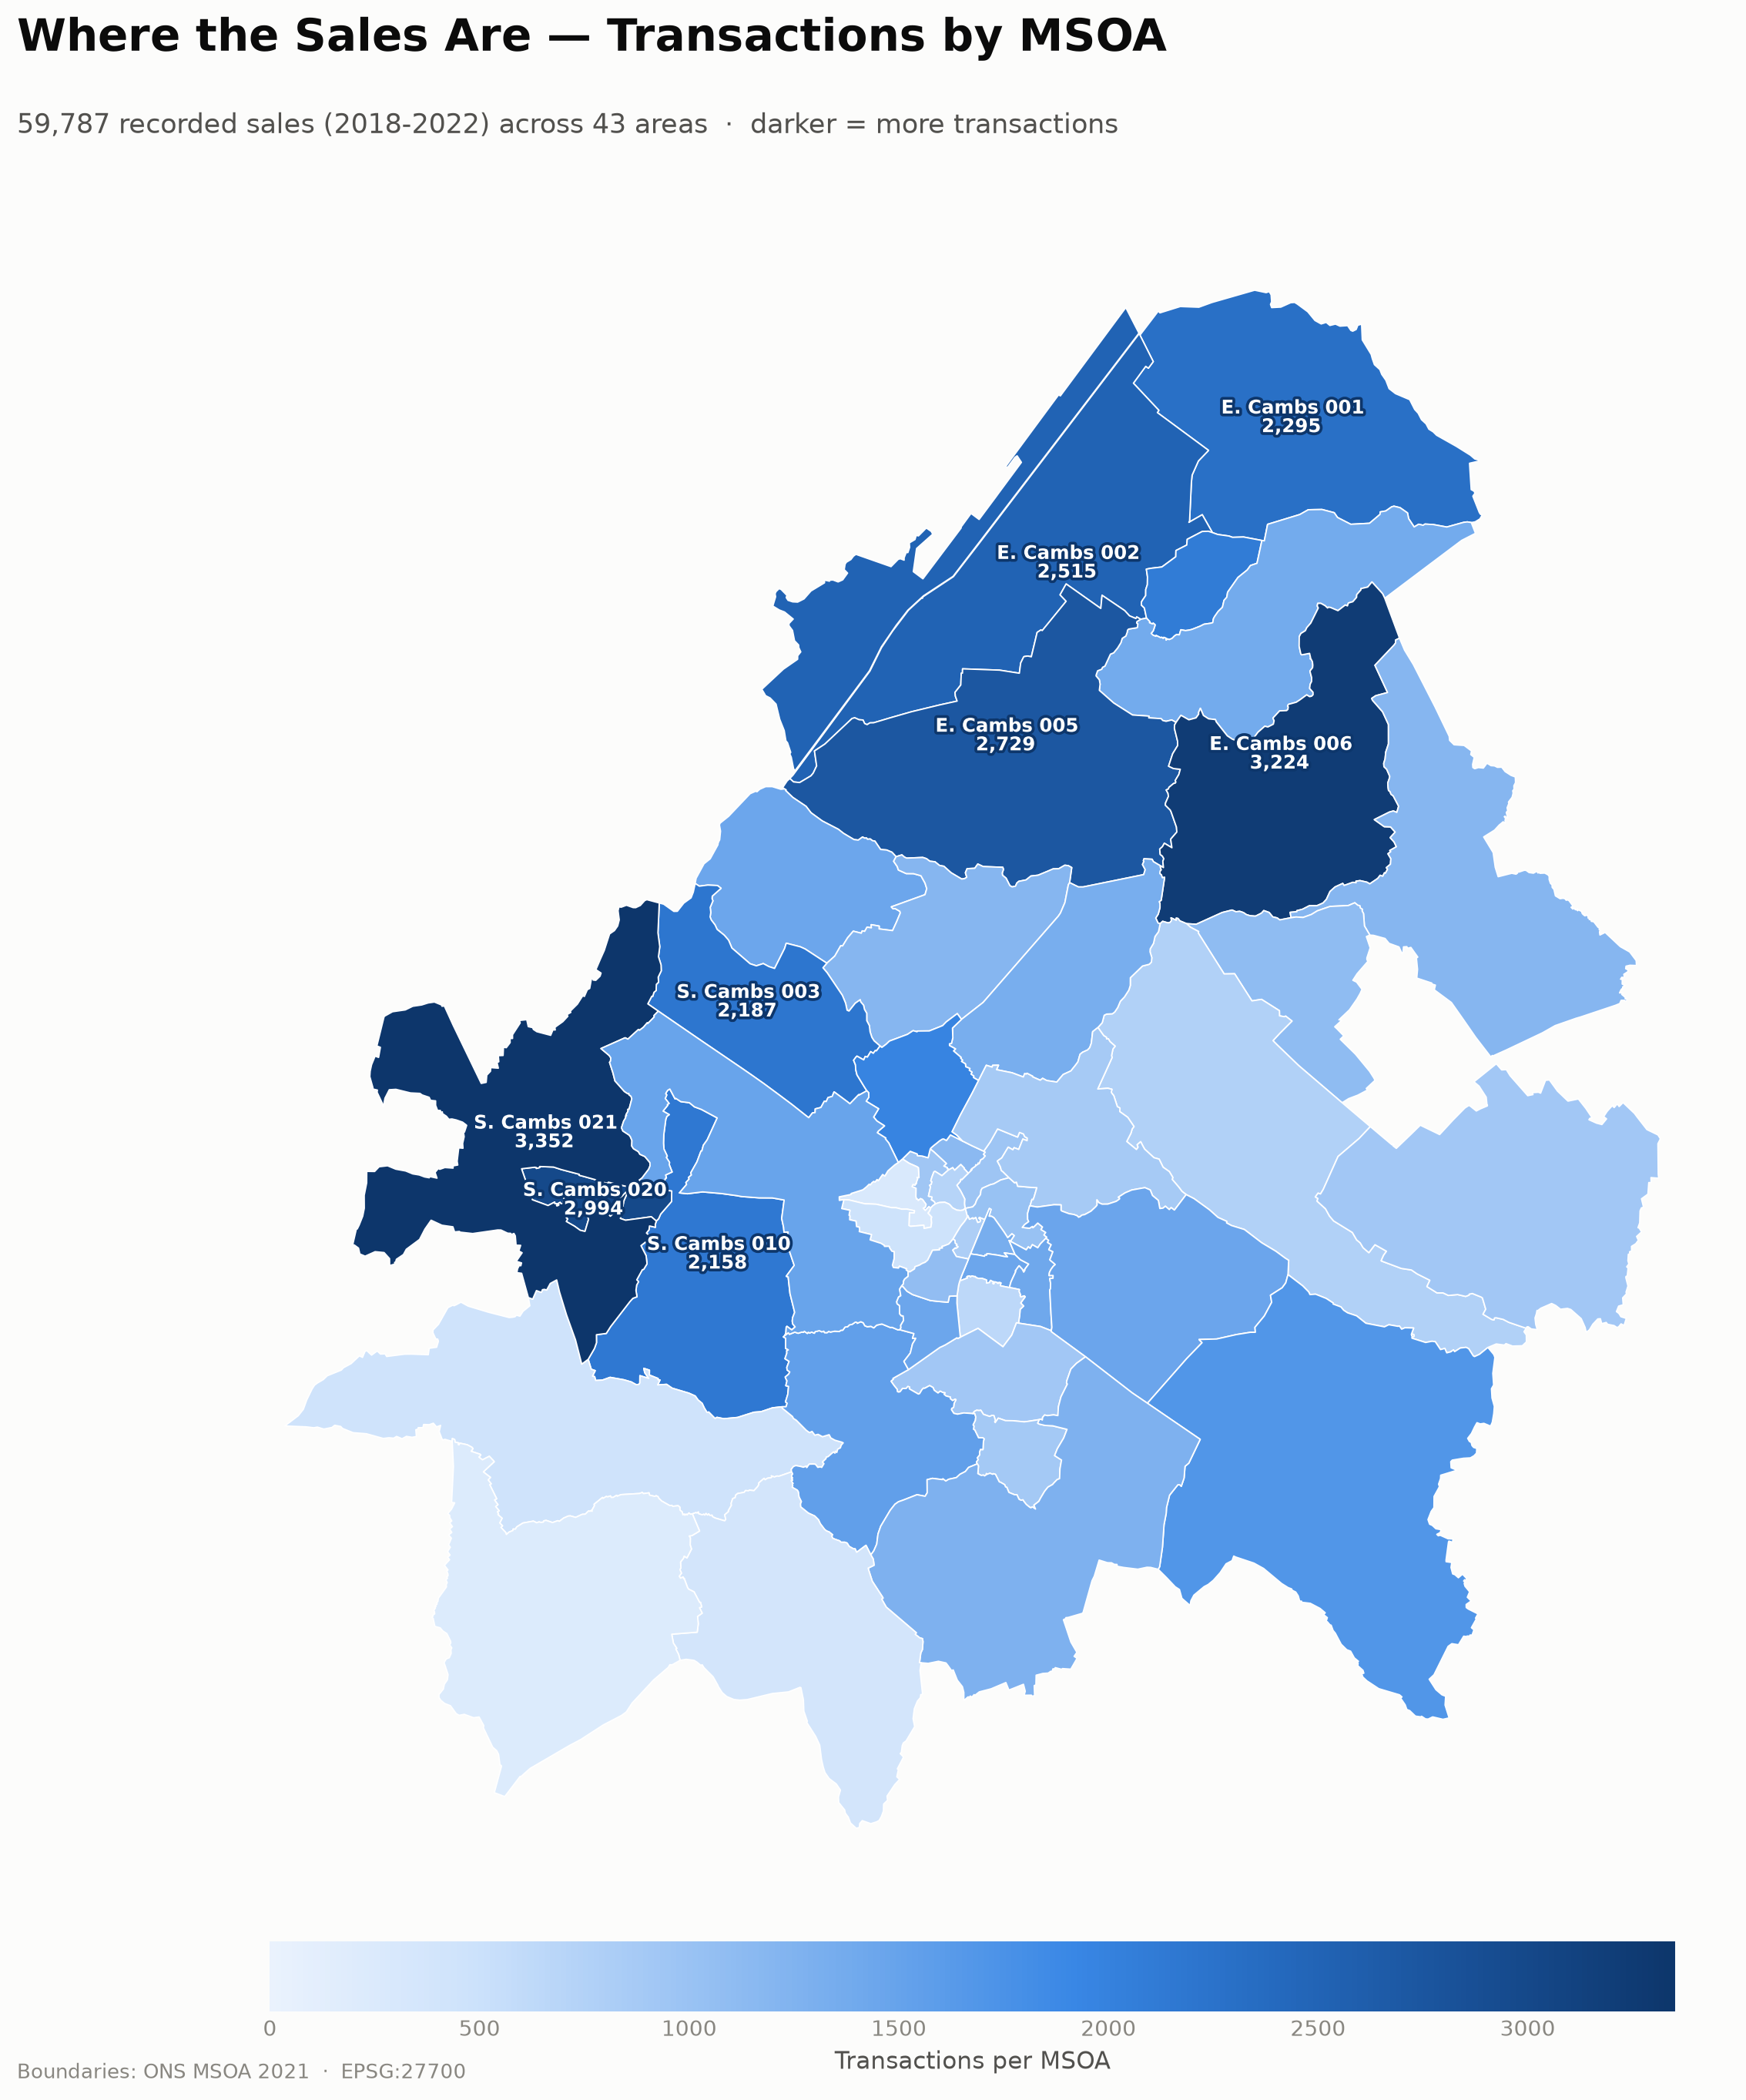
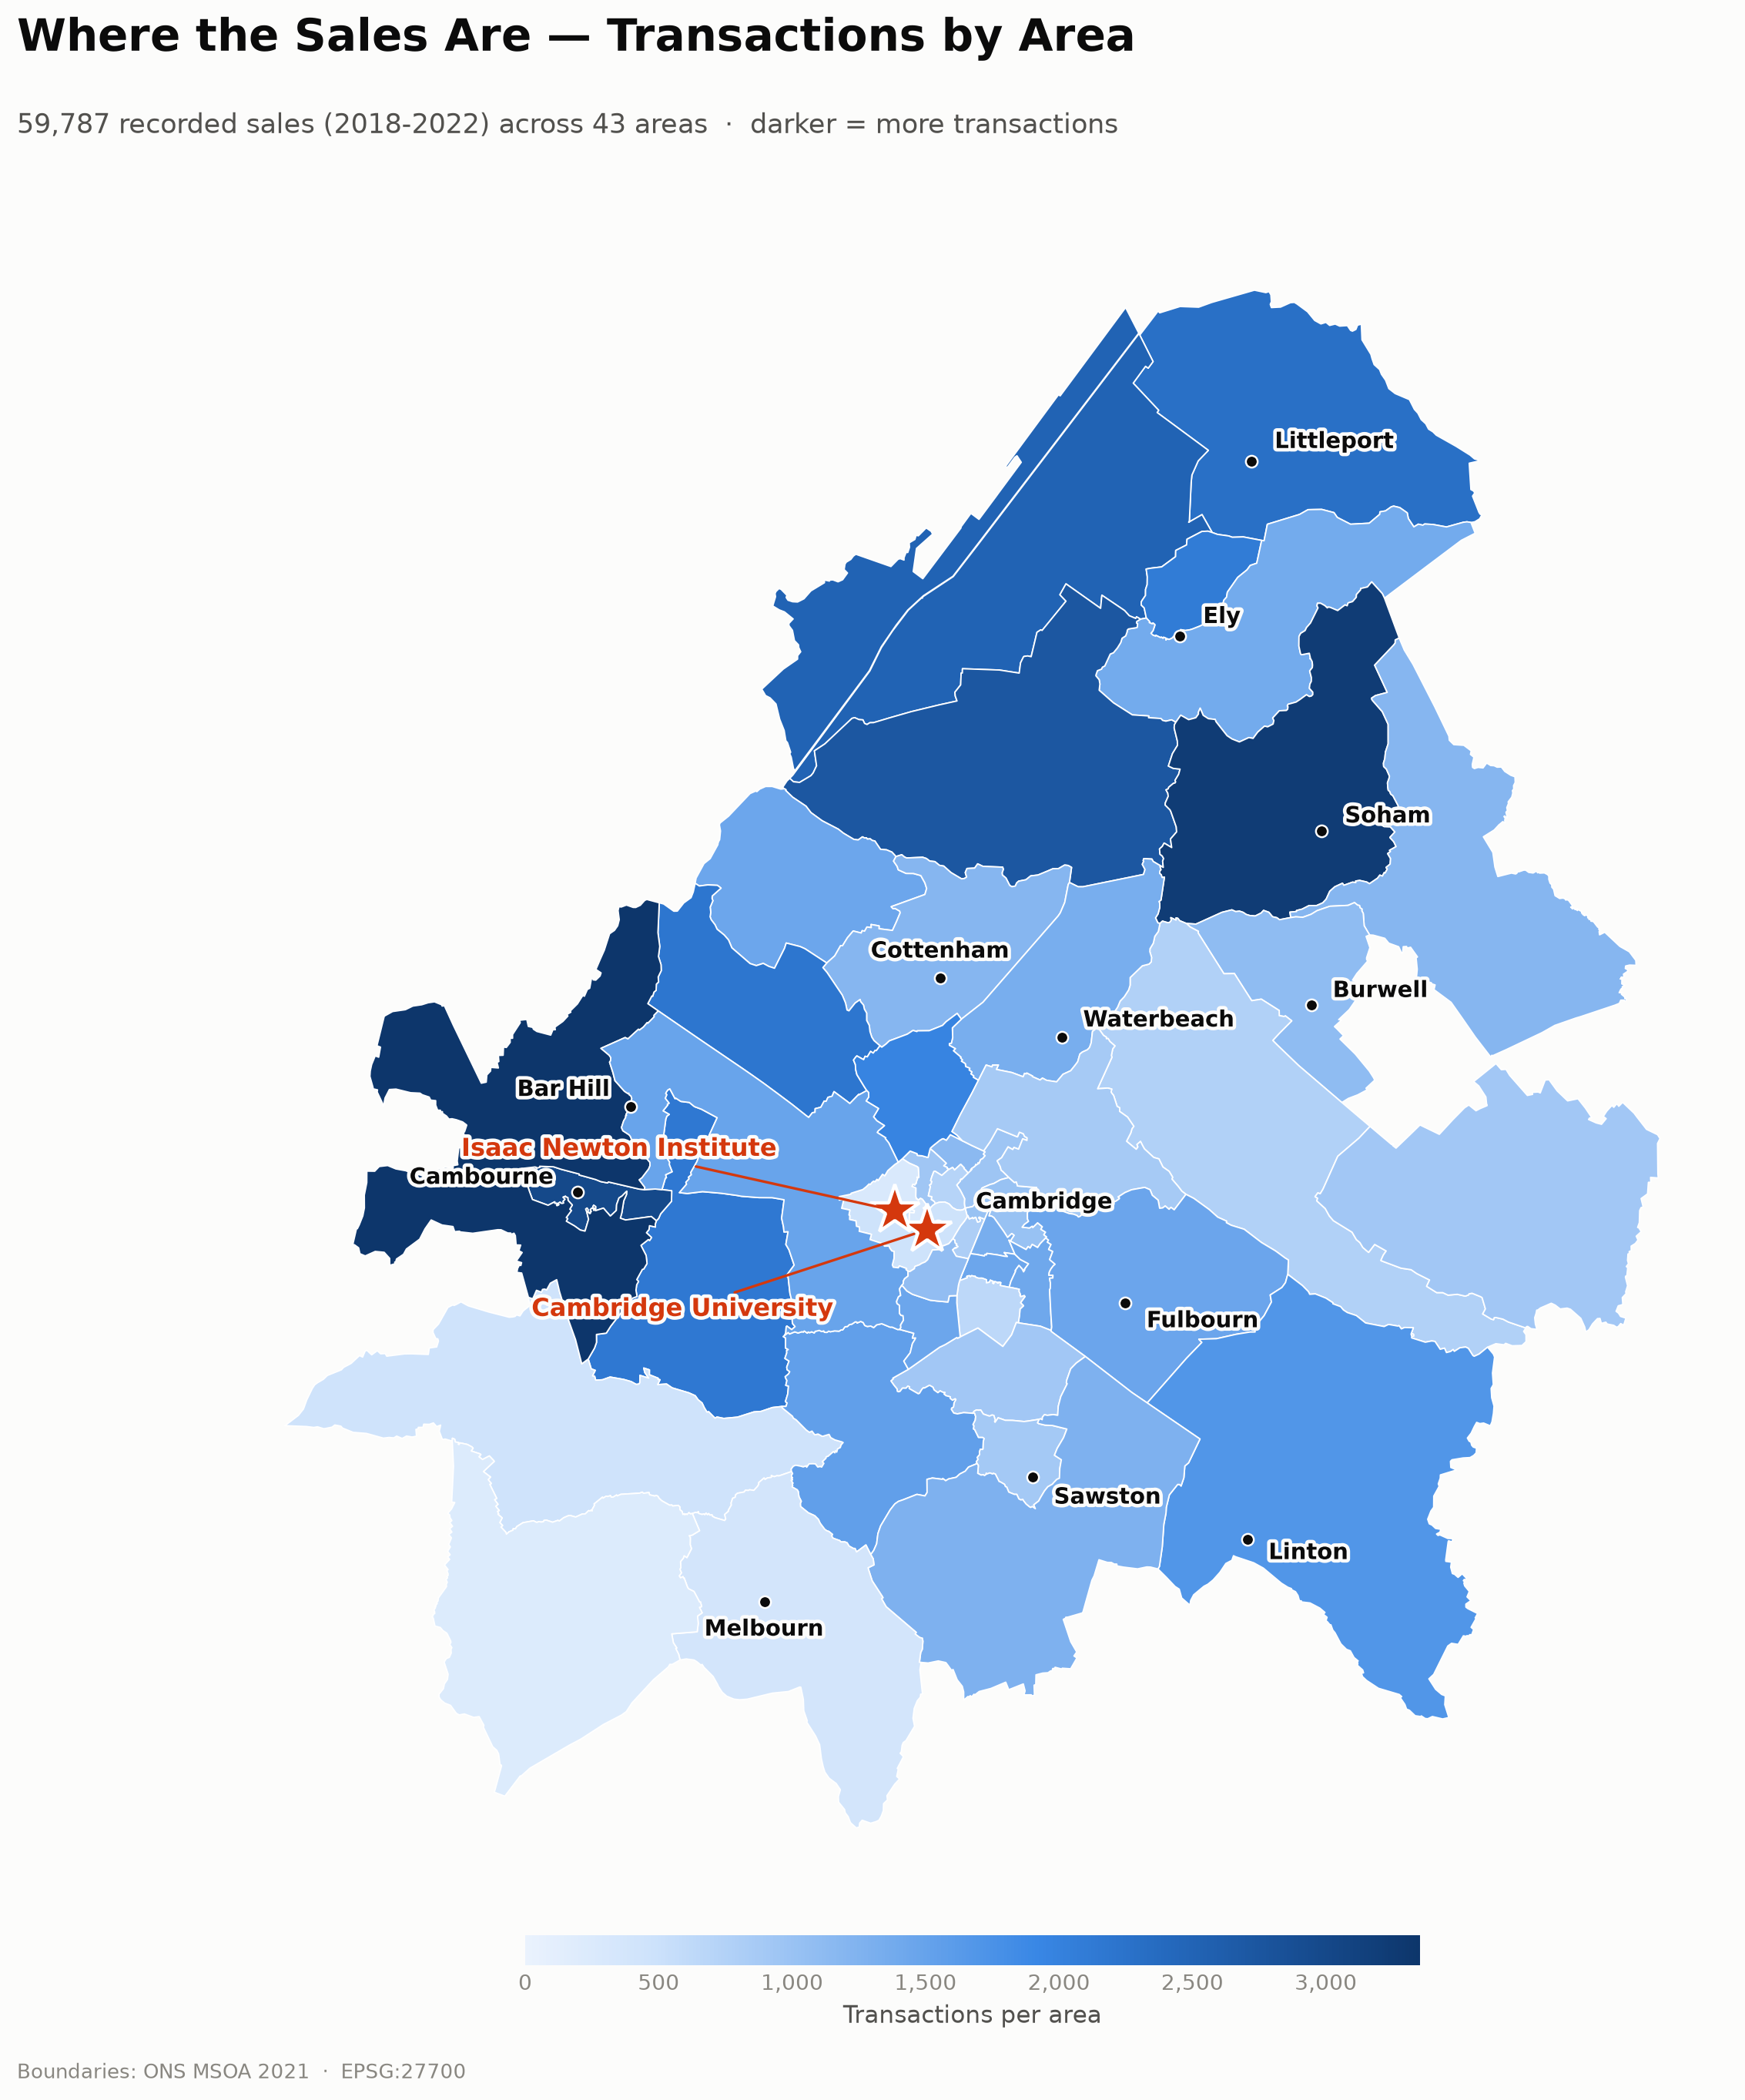
Label maps with real towns + Cambridge University and Isaac Newton Institute; add population density map from ONS mid-2022 estimates

diff --git a/code/python/plot_cambridgeshire_maps.py b/code/python/plot_cambridgeshire_maps.py
@@ -36,6 +36,7 @@ DATA_DIR = PROJECT_ROOT / "data"
 IMAGE_DIR = PROJECT_ROOT / "image"
 
 CLEANED = DATA_DIR / "cleaned" / "Cambridge data_cleaned.csv"
+POPULATION = DATA_DIR / "spatial" / "msoa_population_mid2022.csv"
 BOUNDARIES = (
     DATA_DIR
     / "spatial"
@@ -96,24 +97,35 @@ PRICE_TRAITS = [
 GROUP_AFFORD = "#eb6834"  # orange - most affordable areas
 GROUP_PRICEY = "#2a78d6"  # blue   - priciest areas
 
-# Key Cambridgeshire landmarks (num, lat, lon, name, one-line effect note). Shown
-# as numbered dots on the map, described in the side key.
-LANDMARKS = [
-    (1, 52.2045, 0.1170, "University of Cambridge", "historic colleges: priciest, low turnover"),
-    (2, 52.1745, 0.1400, "Biomedical Campus", "Addenbrooke's: major employer, south"),
-    (3, 52.2320, 0.1490, "Cambridge Science Park", "'Silicon Fen' tech jobs, north"),
-    (4, 52.2220, -0.0730, "Cambourne", "new town: new-build boom, top volume"),
-    (5, 52.3990, 0.2620, "Ely", "cathedral commuter city (East Cambs)"),
-    (6, 52.3330, 0.3360, "Soham", "affordable market town, high turnover"),
-    (7, 52.4620, 0.3050, "Littleport", "cheapest, high-volume town (north)"),
-    (8, 52.1850, -0.0050, "West villages", "Grantchester/Comberton: £580k, low turnover"),
+VIOLET_RAMP = LinearSegmentedColormap.from_list(
+    "cam_violet",
+    ["#f0ecfb", "#ddd0f3", "#c2ade8", "#a385db", "#845fcc", "#653fb0", "#4c2c8f", "#35206b"],
+)
+
+# Real towns to label on every map: (name, lat, lon, dx, dy, ha) — dx/dy are the
+# label offset in points from the dot, hand-tuned so labels sit clear of one another.
+TOWNS = [
+    ("Cambridge", 52.2053, 0.1218, 16, 10, "left"),
+    ("Ely", 52.3993, 0.2626, 10, 8, "left"),
+    ("Soham", 52.3330, 0.3363, 10, 6, "left"),
+    ("Littleport", 52.4568, 0.3046, 10, 8, "left"),
+    ("Cambourne", 52.2200, -0.0730, -10, 6, "right"),
+    ("Sawston", 52.1210, 0.1690, 9, -9, "left"),
+    ("Waterbeach", 52.2670, 0.1920, 9, 7, "left"),
+    ("Cottenham", 52.2880, 0.1270, 0, 11, "center"),
+    ("Burwell", 52.2750, 0.3280, 9, 6, "left"),
+    ("Bar Hill", 52.2480, -0.0430, -9, 7, "right"),
+    ("Melbourn", 52.0820, 0.0220, 0, -12, "center"),
+    ("Linton", 52.0980, 0.2840, 9, -6, "left"),
+    ("Fulbourn", 52.1780, 0.2220, 9, -8, "left"),
 ]
 
-REGION_NOTES = [
-    ("Cambridge city  (14 MSOAs)", "high price · flat-heavy · low turnover"),
-    ("South Cambs  (19 MSOAs)", "commuter villages + new towns (Cambourne)"),
-    ("East Cambs  (10 MSOAs)", "affordable market towns: Ely, Soham, Littleport"),
+# The two headline landmarks — starred and made prominent ("where we are now").
+SPECIAL = [
+    ("Cambridge University", 52.2043, 0.1160, -40, -34, "right"),
+    ("Isaac Newton Institute", 52.2109, 0.0985, -50, 26, "right"),
 ]
+STAR = "#d4380d"  # strong orange-red for the two headline landmarks
 
 
 def style_axes(ax) -> None:
@@ -132,13 +144,27 @@ def footer(fig, text) -> None:
     fig.text(0.03, 0.02, text, fontsize=8.5, color=MUTED)
 
 
-def label_top(ax, gdf, n, *, color="white", stroke="#0d366b") -> None:
-    for _, row in gdf.sort_values("count", ascending=False).head(n).iterrows():
-        pt = row.geometry.representative_point()
-        ax.annotate(f"{row['short']}\n{int(row['count']):,}", (pt.x, pt.y),
-                    ha="center", va="center", fontsize=8, fontweight="bold",
-                    color=color, linespacing=1.05,
-                    path_effects=[path_effects.withStroke(linewidth=2.4, foreground=stroke)])
+def _project(items):
+    """Project a list of (name, lat, lon, ...) to EPSG:27700 points."""
+    lon = [t[2] for t in items]
+    lat = [t[1] for t in items]
+    return gpd.GeoDataFrame(geometry=gpd.points_from_xy(lon, lat), crs="EPSG:4326").to_crs(27700)
+
+
+def annotate_places(ax) -> None:
+    """Label the main towns (dots) plus the two headline landmarks (stars)."""
+    halo = [path_effects.withStroke(linewidth=3, foreground=SURFACE)]
+    for (name, la, lo, dx, dy, ha), geom in zip(TOWNS, _project(TOWNS).geometry):
+        ax.plot(geom.x, geom.y, "o", ms=5, mfc=INK, mec="white", mew=0.8, zorder=6)
+        ax.annotate(name, (geom.x, geom.y), xytext=(dx, dy), textcoords="offset points",
+                    ha=ha, va="center", fontsize=9.5, fontweight="bold", color=INK,
+                    zorder=7, path_effects=halo)
+    for (name, la, lo, dx, dy, ha), geom in zip(SPECIAL, _project(SPECIAL).geometry):
+        ax.plot(geom.x, geom.y, marker="*", ms=22, mfc=STAR, mec="white", mew=1.4, zorder=8)
+        ax.annotate(name, (geom.x, geom.y), xytext=(dx, dy), textcoords="offset points",
+                    ha=ha, va="center", fontsize=10.5, fontweight="bold", color=STAR, zorder=9,
+                    arrowprops=dict(arrowstyle="-", color=STAR, lw=1.1, shrinkA=0, shrinkB=6),
+                    path_effects=halo)
 
 
 def load() -> tuple[pd.DataFrame, gpd.GeoDataFrame]:
@@ -153,32 +179,22 @@ def load() -> tuple[pd.DataFrame, gpd.GeoDataFrame]:
     )
     per["dominant"] = df.groupby("msoa21")["grp"].agg(lambda s: s.value_counts().idxmax())
 
+    pop = pd.read_csv(POPULATION).set_index("msoa21")["population_2022"]
+
     gdf = gpd.read_file(BOUNDARIES, columns=["MSOA21CD", "MSOA21NM", "geometry"])
     gdf = gdf[gdf["MSOA21CD"].isin(per.index)].copy()
     gdf = gdf.merge(per, left_on="MSOA21CD", right_index=True).to_crs(epsg=27700)
-    gdf["short"] = (gdf["MSOA21NM"]
-                    .str.replace("South Cambridgeshire", "S. Cambs", regex=False)
-                    .str.replace("East Cambridgeshire", "E. Cambs", regex=False))
+    gdf["population"] = gdf["MSOA21CD"].map(pop)
+    gdf["density"] = gdf["population"] / (gdf.geometry.area / 1e6)  # residents per km^2
     return df, gdf
 
 
 # --- 1. transaction count map ---------------------------------------------------
 def fig_count_map(df, gdf) -> Path:
-    fig = plt.figure(figsize=(12, 12.8))
-    ax = fig.add_axes([0.02, 0.05, 0.96, 0.83])
-    vmax = gdf["count"].max()
-    gdf.plot(ax=ax, column="count", cmap=BLUE_RAMP, norm=Normalize(0, vmax),
-             linewidth=0.6, edgecolor="white")
-    ax.set_axis_off(); ax.set_aspect("equal")
-    label_top(ax, gdf, 8)
-
-    sm = plt.cm.ScalarMappable(cmap=BLUE_RAMP, norm=Normalize(0, vmax))
-    cb = fig.colorbar(sm, ax=ax, orientation="horizontal", fraction=0.04, pad=0.02, shrink=0.72)
-    cb.set_label("Transactions per MSOA", color=INK_2, fontsize=10)
-    cb.outline.set_visible(False)
-    cb.ax.tick_params(colors=MUTED, labelsize=9, length=0)
-
-    title_block(fig, "Where the Sales Are — Transactions by MSOA",
+    norm = Normalize(0, gdf["count"].max())
+    fig, ax = _choropleth(gdf, "count", BLUE_RAMP, norm)
+    _hbar(fig, BLUE_RAMP, norm, "Transactions per area", lambda v, _: f"{v:,.0f}")
+    title_block(fig, "Where the Sales Are — Transactions by Area",
                 f"{len(df):,} recorded sales (2018-2022) across {gdf.shape[0]} areas  ·  darker = more transactions")
     footer(fig, "Boundaries: ONS MSOA 2021  ·  EPSG:27700")
     out = IMAGE_DIR / "cambridgeshire_transaction_count_map.png"
@@ -196,6 +212,7 @@ def fig_type_map(df, gdf) -> Path:
                               norm=BoundaryNorm(range(len(TYPE_ORDER) + 1), cmap.N),
                               linewidth=0.6, edgecolor="white")
     ax.set_axis_off(); ax.set_aspect("equal")
+    annotate_places(ax)
 
     handles = [Patch(facecolor=TYPE_COLOR[t], label=t) for t in TYPE_ORDER]
     ax.legend(handles=handles, loc="lower left", frameon=False, fontsize=11,
@@ -203,7 +220,7 @@ def fig_type_map(df, gdf) -> Path:
               labelcolor=INK_2, handlelength=1.2)
     ax.get_legend().get_title().set_color(INK)
 
-    title_block(fig, "Housing Character — Dominant Dwelling Type by MSOA",
+    title_block(fig, "Housing Character — Dominant Dwelling Type by Area",
                 "the most-sold property type in each area  ·  flats cluster in the city, detached homes in the countryside")
     footer(fig, "Types grouped from 24 raw categories  ·  Boundaries: ONS MSOA 2021  ·  EPSG:27700")
     out = IMAGE_DIR / "cambridgeshire_property_type_map.png"
@@ -262,51 +279,51 @@ def fig_price_profile(df) -> Path:
     return out
 
 
-# --- 4. region + landmarks price map --------------------------------------------
-def fig_landmarks_map(df, gdf) -> Path:
-    fig = plt.figure(figsize=(16, 12.5))
-    ax = fig.add_axes([0.36, 0.05, 0.60, 0.82])  # map on the right
-    vmin, vmax = gdf["median_price"].min(), gdf["median_price"].max()
-    gdf.plot(ax=ax, column="median_price", cmap=TEAL_RAMP, norm=Normalize(vmin, vmax),
-             linewidth=0.6, edgecolor="white")
+def _choropleth(gdf, column, cmap, norm):
+    """Shared full-bleed map canvas with town/landmark labels; returns (fig, ax)."""
+    fig = plt.figure(figsize=(12, 12.8))
+    ax = fig.add_axes([0.02, 0.10, 0.96, 0.78])
+    gdf.plot(ax=ax, column=column, cmap=cmap, norm=norm, linewidth=0.6, edgecolor="white")
     ax.set_axis_off(); ax.set_aspect("equal")
+    annotate_places(ax)
+    return fig, ax
 
-    # numbered landmark dots, projected to the map CRS
-    lon = [m[2] for m in LANDMARKS]
-    lat = [m[1] for m in LANDMARKS]
-    gp = gpd.GeoDataFrame(geometry=gpd.points_from_xy(lon, lat), crs="EPSG:4326").to_crs(27700)
-    for (num, *_), geom in zip(LANDMARKS, gp.geometry):
-        ax.plot(geom.x, geom.y, "o", ms=15, mfc=ACCENT, mec="white", mew=1.8, zorder=5)
-        ax.annotate(str(num), (geom.x, geom.y), ha="center", va="center",
-                    fontsize=9, fontweight="bold", color="white", zorder=6)
 
-    sm = plt.cm.ScalarMappable(cmap=TEAL_RAMP, norm=Normalize(vmin, vmax))
-    cb = fig.colorbar(sm, ax=ax, orientation="vertical", fraction=0.035, pad=0.01, shrink=0.5)
-    cb.set_label("Median sale price", color=INK_2, fontsize=10)
+def _hbar(fig, cmap, norm, label, fmt):
+    """Horizontal colorbar in a fixed axes above the footer (no overlap)."""
+    cax = fig.add_axes([0.28, 0.072, 0.44, 0.014])
+    cb = fig.colorbar(plt.cm.ScalarMappable(cmap=cmap, norm=norm), cax=cax,
+                      orientation="horizontal")
+    cb.set_label(label, color=INK_2, fontsize=10)
     cb.outline.set_visible(False)
-    cb.ax.yaxis.set_major_formatter(FuncFormatter(lambda v, _: f"£{v/1000:.0f}k"))
+    cb.ax.xaxis.set_major_formatter(FuncFormatter(fmt))
     cb.ax.tick_params(colors=MUTED, labelsize=9, length=0)
 
-    # --- left panel: key + regional character (fig coords, clear of the map) ---
-    fig.text(0.03, 0.86, "KEY LANDMARKS", fontsize=12, fontweight="bold", color=INK)
-    y = 0.825
-    for num, la, lo, name, note in LANDMARKS:
-        fig.text(0.03, y, f"{num}", fontsize=10.5, fontweight="bold", color=ACCENT)
-        fig.text(0.055, y, name, fontsize=10.5, fontweight="bold", color=INK_2)
-        fig.text(0.055, y - 0.022, note, fontsize=8.8, color=MUTED)
-        y -= 0.05
 
-    fig.text(0.03, y - 0.01, "REGIONAL CHARACTER", fontsize=12, fontweight="bold", color=INK)
-    y -= 0.05
-    for head, note in REGION_NOTES:
-        fig.text(0.03, y, head, fontsize=10, fontweight="bold", color=INK_2)
-        fig.text(0.03, y - 0.022, note, fontsize=8.8, color=MUTED)
-        y -= 0.052
+# --- 4. median price map --------------------------------------------------------
+def fig_price_map(df, gdf) -> Path:
+    norm = Normalize(gdf["median_price"].min(), gdf["median_price"].max())
+    fig, ax = _choropleth(gdf, "median_price", TEAL_RAMP, norm)
+    _hbar(fig, TEAL_RAMP, norm, "Median sale price", lambda v, _: f"£{v/1000:.0f}k")
+    title_block(fig, "House Prices across Cambridgeshire",
+                "median sale price by area (2018-2022)  ·  priciest in Cambridge & the villages west of the city")
+    footer(fig, "Price = median of recorded sales  ·  Boundaries: ONS MSOA 2021  ·  EPSG:27700")
+    out = IMAGE_DIR / "cambridgeshire_price_map.png"
+    fig.savefig(out, dpi=220, bbox_inches="tight"); plt.close(fig)
+    return out
 
-    title_block(fig, "Why Prices & Sales Differ — Regions & Landmarks",
-                "median sale price by MSOA, with the employers, towns and villages that shape demand")
-    footer(fig, "Landmark positions approximate  ·  price = median of recorded sales 2018-2022  ·  ONS MSOA 2021  ·  EPSG:27700")
-    out = IMAGE_DIR / "cambridgeshire_region_landmarks_map.png"
+
+# --- 5. population density map (official ONS mid-2022) --------------------------
+def fig_population_map(df, gdf) -> Path:
+    norm = Normalize(0, gdf["density"].max())
+    fig, ax = _choropleth(gdf, "density", VIOLET_RAMP, norm)
+    _hbar(fig, VIOLET_RAMP, norm, "Residents per km² (mid-2022)",
+          lambda v, _: f"{v/1000:.0f}k" if v >= 1000 else f"{v:.0f}")
+    total = int(gdf["population"].sum())
+    title_block(fig, "Where People Live — Population Density",
+                f"{total:,} residents (ONS mid-2022) across {gdf.shape[0]} areas  ·  packed into Cambridge, sparse in the fens & countryside")
+    footer(fig, "Population: ONS mid-2022 MSOA estimates (Nomis NM_2014_1)  ·  density = residents / land area  ·  ONS MSOA 2021  ·  EPSG:27700")
+    out = IMAGE_DIR / "cambridgeshire_population_map.png"
     fig.savefig(out, dpi=220, bbox_inches="tight"); plt.close(fig)
     return out
 
@@ -326,7 +343,7 @@ def main() -> None:
     base_style()
     df, gdf = load()
     for p in (fig_count_map(df, gdf), fig_type_map(df, gdf), fig_price_profile(df),
-              fig_landmarks_map(df, gdf)):
+              fig_price_map(df, gdf), fig_population_map(df, gdf)):
         print(f"Saved {p.relative_to(PROJECT_ROOT)}")
 
 